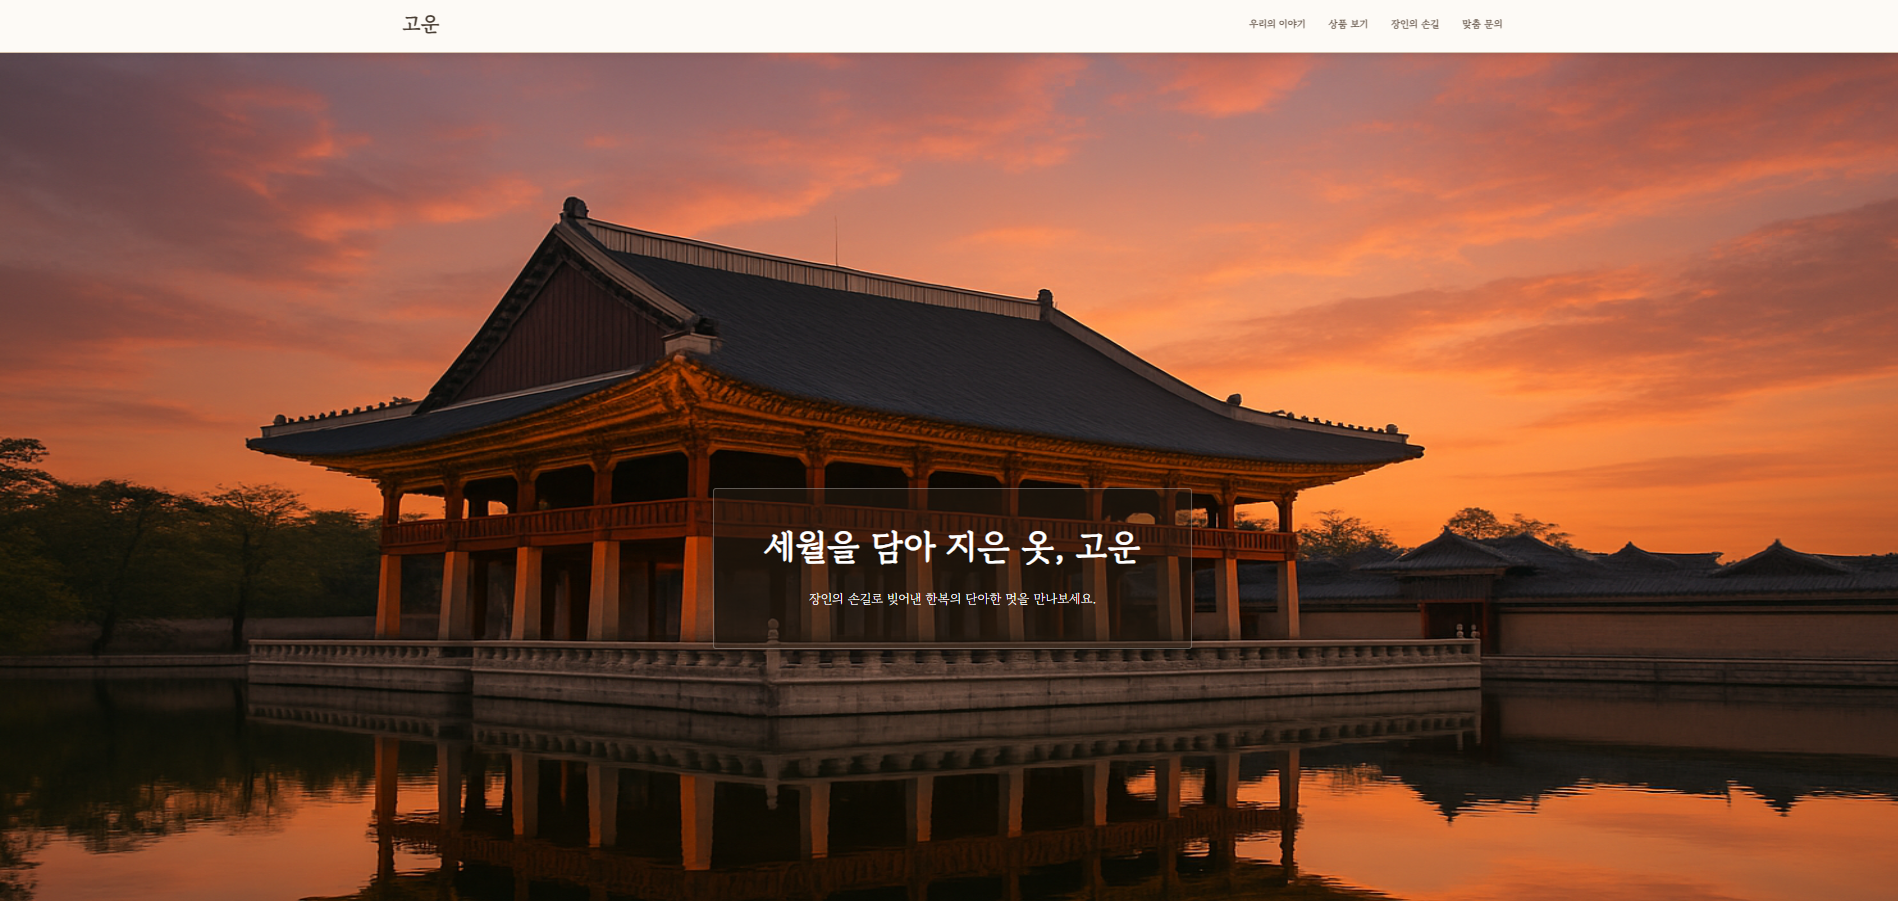
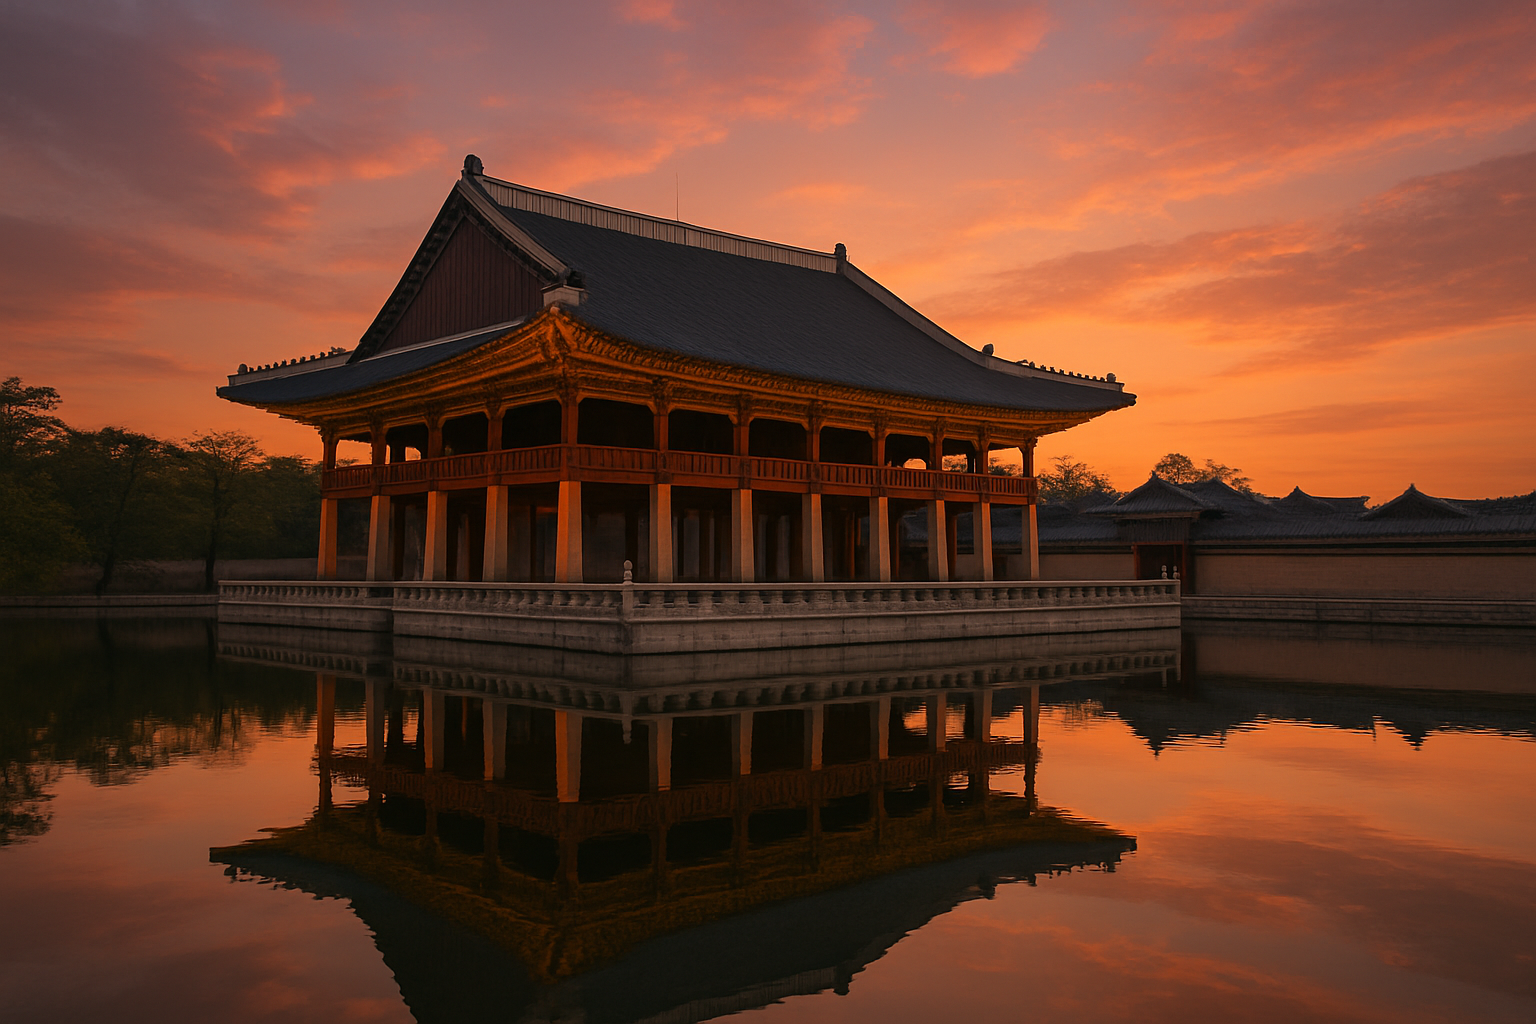
Upload

diff --git a/style.css b/style.css
@@ -81,7 +81,7 @@ main {
 }
 
 #hero {
-    background: url('https://sdmntprpolandcentral.oaiusercontent.com/files/00000000-176c-620a-8e9d-d972e6974e51/raw?se=2025-08-07T14%3A28%3A09Z&sp=r&sv=2024-08-04&sr=b&scid=c32f1497-3ebc-57dd-9079-d6337c239caf&skoid=a3412ad4-1a13-47ce-91a5-c07730964f35&sktid=a48cca56-e6da-484e-a814-9c849652bcb3&skt=2025-08-06T18%3A48%3A02Z&ske=2025-08-07T18%3A48%3A02Z&sks=b&skv=2024-08-04&sig=ZXyRrsPouK2ZAza7D/nrCmPY1MNLfzI2q/%2BZfkLYuM4%3D') no-repeat center center/cover;
+    background: url('고운.png') no-repeat top center/cover;
     height: 100vh;
     display: flex;
     align-items: center;
@@ -102,7 +102,7 @@ main {
 }
 
 .hero-content {
-    background: rgba(40, 30, 20, 0.5); /* 불투명도 살짝 낮춤 */
+    background: rgba(40, 30, 20, 0.8); /* 불투명도 살짝 높임 */
     padding: 2.5rem 5rem; /* 패딩 증가 */
     border-radius: 3px; /* 모서리 둥글기 살짝 줄임 */
     border: 1px solid rgba(255, 255, 255, 0.3); /* 은은한 흰색 테두리 추가 */
@@ -146,7 +146,7 @@ section h2 {
 
 /* About Page Specific Styles */
 #about-hero {
-    background: url('https://sdmntprpolandcentral.oaiusercontent.com/files/00000000-176c-620a-8e9d-d972e6974e51/raw?se=2025-08-07T14%3A28%3A09Z&sp=r&sv=2024-08-04&sr=b&scid=c32f1497-3ebc-57dd-9079-d6337c239caf&skoid=a3412ad4-1a13-47ce-91a5-c07730964f35&sktid=a48cca56-e6da-484e-a814-9c849652bcb3&skt=2025-08-06T18%3A48%3A02Z&ske=2025-08-07T18%3A48%3A02Z&sks=b&skv=2024-08-04&sig=ZXyRrsPouK2ZAza7D/nrCmPY1MNLfzI2q/%2BZfkLYuM4%3D') no-repeat center center/cover; /* 메인 페이지와 동일한 배경 사용 */
+    background: url('고운.png') no-repeat top center/cover;
     height: 60vh; /* 메인 페이지보다 살짝 작게 */
     display: flex;
     align-items: center;
@@ -323,7 +323,7 @@ section h2 {
 
 /* Gallery Page Specific Styles */
 #gallery-hero {
-    background: url('https://sdmntprpolandcentral.oaiusercontent.com/files/00000000-176c-620a-8e9d-d972e6974e51/raw?se=2025-08-07T14%3A28%3A09Z&sp=r&sv=2024-08-04&sr=b&scid=c32f1497-3ebc-57dd-9079-d6337c239caf&skoid=a3412ad4-1a13-47ce-91a5-c07730964f35&sktid=a48cca56-e6da-484e-a814-9c849652bcb3&skt=2025-08-06T18%3A48%3A02Z&ske=2025-08-07T18%3A48%3A02Z&sks=b&skv=2024-08-04&sig=ZXyRrsPouK2ZAza7D/nrCmPY1MNLfzI2q/%2BZfkLYuM4%3D') no-repeat center center/cover; /* 메인 페이지와 동일한 배경 사용 */
+    background: url('고운.png') no-repeat top center/cover;
     height: 60vh; /* 메인 페이지보다 살짝 작게 */
     display: flex;
     align-items: center;
@@ -368,7 +368,7 @@ section h2 {
 
 /* Story Page Specific Styles */
 #story-hero {
-    background: url('https://sdmntprpolandcentral.oaiusercontent.com/files/00000000-176c-620a-8e9d-d972e6974e51/raw?se=2025-08-07T14%3A28%3A09Z&sp=r&sv=2024-08-04&sr=b&scid=c32f1497-3ebc-57dd-9079-d6337c239caf&skoid=a3412ad4-1a13-47ce-91a5-c07730964f35&sktid=a48cca56-e6da-484e-a814-9c849652bcb3&skt=2025-08-06T18%3A48%3A02Z&ske=2025-08-07T18%3A48%3A02Z&sks=b&skv=2024-08-04&sig=ZXyRrsPouK2ZAza7D/nrCmPY1MNLfzI2q/%2BZfkLYuM4%3D') no-repeat center center/cover; /* 메인 페이지와 동일한 배경 사용 */
+    background: url('고운.png') no-repeat top center/cover; /* 메인 페이지와 동일한 배경 사용 */
     height: 60vh;
     display: flex;
     align-items: center;
@@ -471,6 +471,45 @@ section h2 {
 }
 
 /* 문의하기 섹션 */
+#contact-hero {
+    background: url('고운.png') no-repeat top center/cover;
+    height: 60vh;
+    display: flex;
+    align-items: center;
+    justify-content: center;
+    text-align: center;
+    color: #fff;
+    animation: backgroundZoom 20s infinite alternate;
+}
+
+#contact-hero .hero-content {
+    background: rgba(40, 30, 20, 0.6);
+    padding: 2rem 4rem;
+    border-radius: 5px;
+    border: 1px solid rgba(255, 255, 255, 0.4);
+    box-shadow: 0 0 20px rgba(0, 0, 0, 0.3);
+}
+
+#contact-hero h1 {
+    font-size: 3rem;
+    margin-bottom: 1rem;
+}
+
+#contact-hero p {
+    font-size: 1.2rem;
+    max-width: none;
+}
+
+@media (max-width: 768px) {
+    #contact-hero h1 {
+        font-size: 2.2rem;
+    }
+
+    #contact-hero p {
+        font-size: 1rem;
+    }
+}
+
 #contact form {
     max-width: 600px;
     margin: 0 auto;

diff --git a/contact.html b/contact.html
@@ -24,6 +24,12 @@
     </header>
 
     <main>
+        <section id="contact-hero">
+            <div class="hero-content">
+                <h1>맞춤 문의</h1>
+                <p>궁금한 점을 문의해주세요.</p>
+            </div>
+        </section>
         <section id="contact">
             <div class="container animate-on-scroll">
                 <h2>맞춤 제작 문의</h2>

diff --git a/README.md b/README.md
@@ -4,4 +4,4 @@ Hanbok_Sales
 
 https://library-min.github.io/Hanbok_Sales/
 
-![alt text](고운.png)
+![alt text](고운_Page.png)
